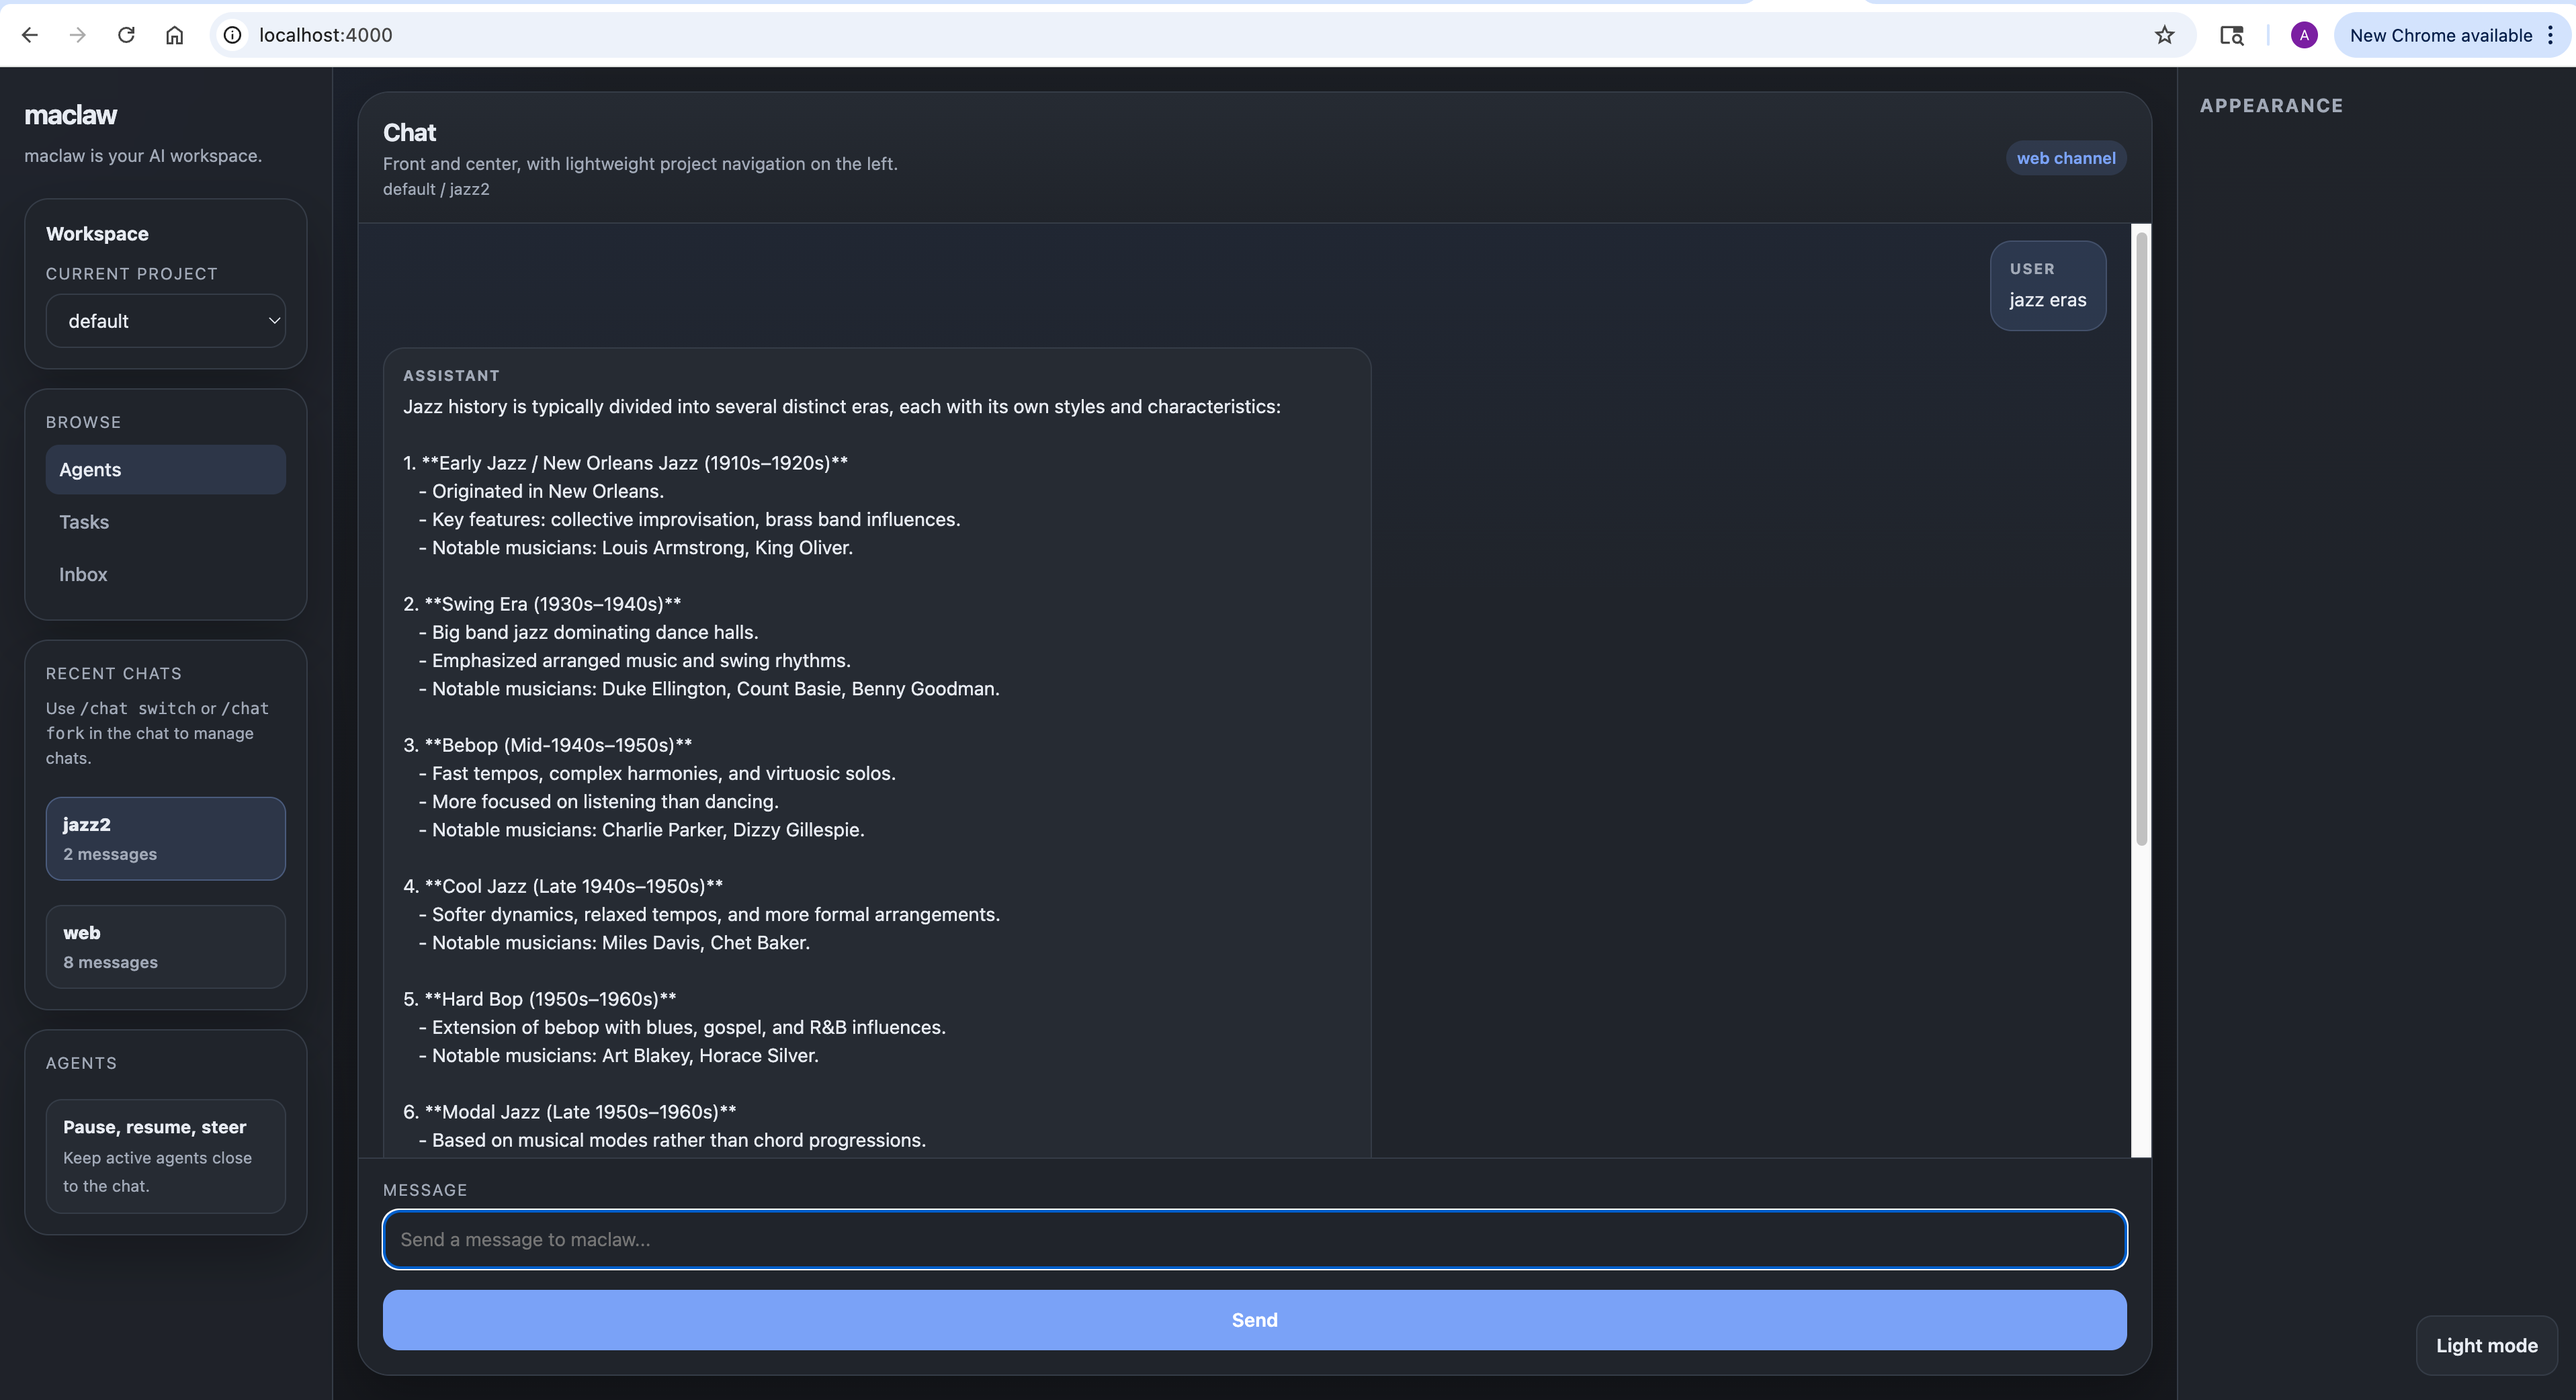
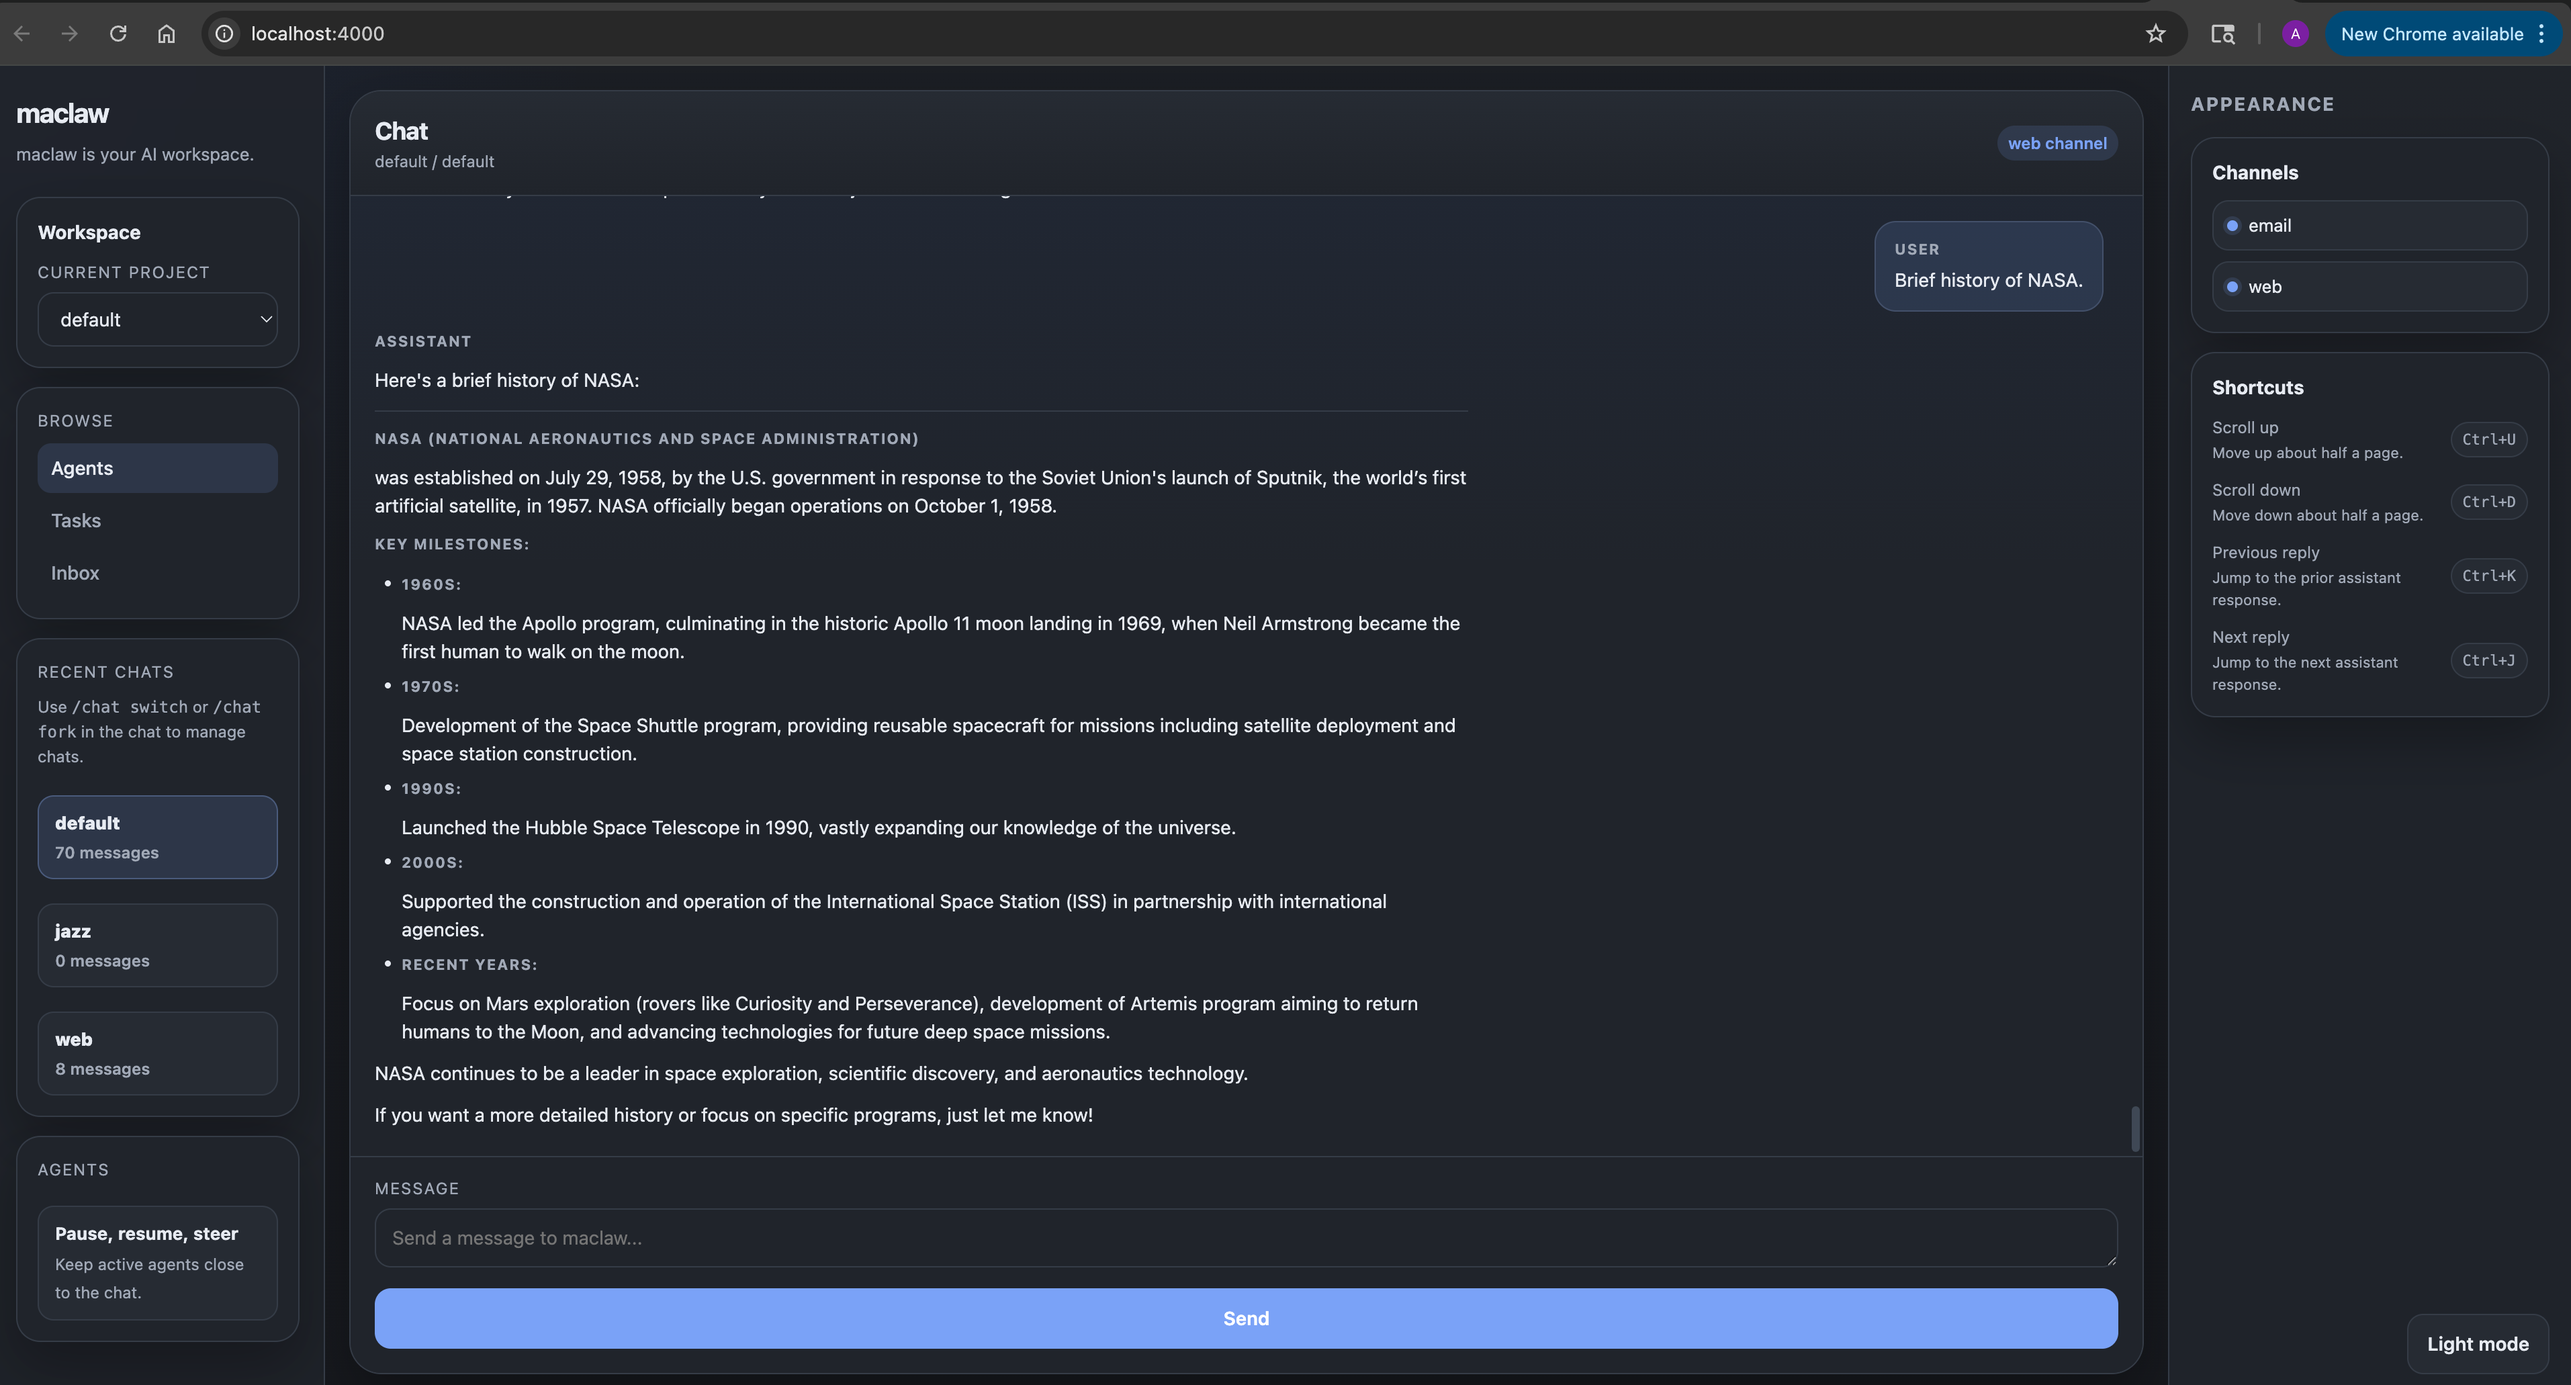
portal shortcuts

diff --git a/src/portal/html.ts b/src/portal/html.ts
@@ -44,6 +44,60 @@ const domPurifyBundle = readFileSync(
   "utf8",
 );
 
+type PortalKeybinding = {
+  action: string;
+  key: string;
+  label: string;
+  shortcut: string;
+  description?: string;
+};
+
+const portalKeybindings: PortalKeybinding[] = [
+  {
+    action: "scrollUp",
+    key: "u",
+    label: "Scroll up",
+    shortcut: "Ctrl+U",
+    description: "Move up about half a page.",
+  },
+  {
+    action: "scrollDown",
+    key: "d",
+    label: "Scroll down",
+    shortcut: "Ctrl+D",
+    description: "Move down about half a page.",
+  },
+  {
+    action: "previousReply",
+    key: "k",
+    label: "Previous reply",
+    shortcut: "Ctrl+K",
+    description: "Jump to the prior assistant response.",
+  },
+  {
+    action: "nextReply",
+    key: "j",
+    label: "Next reply",
+    shortcut: "Ctrl+J",
+    description: "Jump to the next assistant response.",
+  },
+];
+
+const renderShortcutList = (keybindings: PortalKeybinding[]): string =>
+  keybindings
+    .map(
+      (binding) => `
+              <div class="shortcut-row">
+                <span>${escapeHtml(binding.label)}${
+                  binding.description
+                    ? `<br /><span class="shortcut-description">${escapeHtml(binding.description)}</span>`
+                    : ""
+                }</span>
+                <span class="shortcut-key">${escapeHtml(binding.shortcut)}</span>
+              </div>`,
+    )
+    .join("");
+
 export const renderPortalHtml = ({
   channels,
   currentProject,
@@ -624,6 +678,43 @@ export const renderPortalHtml = ({
         font-size: 12px;
       }
 
+      .shortcut-list {
+        display: grid;
+        gap: 10px;
+      }
+
+      .shortcut-row {
+        display: flex;
+        align-items: center;
+        justify-content: space-between;
+        gap: 12px;
+        font-size: 12px;
+      }
+
+      .shortcut-row span {
+        color: var(--muted);
+      }
+
+      .shortcut-description {
+        display: inline-block;
+        margin-top: 2px;
+        font-size: 11px;
+      }
+
+      .shortcut-key {
+        display: inline-flex;
+        align-items: center;
+        gap: 4px;
+        padding: 4px 8px;
+        border: 1px solid var(--border);
+        border-radius: 999px;
+        background: var(--panel-2);
+        color: var(--text);
+        font-family: var(--font-mono);
+        font-size: 11px;
+        white-space: nowrap;
+      }
+
       *::-webkit-scrollbar {
         width: 12px;
         height: 12px;
@@ -766,6 +857,10 @@ export const renderPortalHtml = ({
                     .join("")}</div>`
             }
           </section>
+          <section class="card">
+            <h3>Shortcuts</h3>
+            <div class="shortcut-list">${renderShortcutList(portalKeybindings)}</div>
+          </section>
         </div>
         <div class="theme-spacer"></div>
         <div class="theme-footer">
@@ -777,6 +872,7 @@ export const renderPortalHtml = ({
     <script>${domPurifyBundle}</script>
     <script>
       const portalState = ${serializeForScript({
+        keybindings: portalKeybindings,
         currentProject,
         projects,
       })};
@@ -867,6 +963,49 @@ export const renderPortalHtml = ({
         window.localStorage.setItem(chatStorageKey(project), currentChatId);
       };
 
+      const scrollTranscriptBy = (amount) => {
+        transcript.scrollBy({
+          top: amount,
+          behavior: 'smooth',
+        });
+      };
+
+      const jumpToAssistantMessage = (direction) => {
+        const assistantMessages = Array.from(
+          transcript.querySelectorAll('[data-role="assistant"]'),
+        );
+        if (assistantMessages.length === 0) {
+          return;
+        }
+
+        const transcriptRect = transcript.getBoundingClientRect();
+        const topThreshold = transcriptRect.top + 24;
+        const bottomThreshold = transcriptRect.bottom - 24;
+
+        if (direction > 0) {
+          const nextMessage = assistantMessages.find((element) => {
+            const rect = element.getBoundingClientRect();
+            return rect.top >= bottomThreshold;
+          }) ?? assistantMessages[assistantMessages.length - 1];
+
+          nextMessage.scrollIntoView({
+            block: 'start',
+            behavior: 'smooth',
+          });
+          return;
+        }
+
+        const previousMessages = assistantMessages.filter((element) => {
+          const rect = element.getBoundingClientRect();
+          return rect.top <= topThreshold && rect.bottom <= topThreshold;
+        });
+        const previousMessage = previousMessages[previousMessages.length - 1] ?? assistantMessages[0];
+        previousMessage.scrollIntoView({
+          block: 'start',
+          behavior: 'smooth',
+        });
+      };
+
       const renderMessages = () => {
         if (displayMessages.length === 0) {
           transcript.innerHTML = '<div class="empty-state">No messages yet. Start the conversation here.</div>';
@@ -876,7 +1015,7 @@ export const renderPortalHtml = ({
         transcript.innerHTML = displayMessages.map((message) => {
           const roleClass = message.role === "user" ? " message-user" : " message-assistant";
           return [
-            '<article class="message' + roleClass + '">',
+            '<article class="message' + roleClass + '" data-role="' + escapeHtml(message.role) + '">',
             '<strong>' + escapeHtml(message.role) + '</strong>',
             renderMessageContent(message),
             '</article>',
@@ -1119,6 +1258,40 @@ export const renderPortalHtml = ({
         if (event.key === 'Enter' && !event.shiftKey) {
           event.preventDefault();
           void sendMessage();
+        }
+      });
+
+      document.addEventListener('keydown', (event) => {
+        if (!event.ctrlKey || event.metaKey || event.altKey) {
+          return;
+        }
+
+        const binding = portalState.keybindings.find((entry) => (
+          typeof entry?.key === 'string'
+          && entry.key.toLowerCase() === event.key.toLowerCase()
+        ));
+        if (!binding) {
+          return;
+        }
+
+        event.preventDefault();
+        if (binding.action === 'scrollUp') {
+          scrollTranscriptBy(-Math.max(transcript.clientHeight * 0.5, 180));
+          return;
+        }
+
+        if (binding.action === 'scrollDown') {
+          scrollTranscriptBy(Math.max(transcript.clientHeight * 0.5, 180));
+          return;
+        }
+
+        if (binding.action === 'previousReply') {
+          jumpToAssistantMessage(-1);
+          return;
+        }
+
+        if (binding.action === 'nextReply') {
+          jumpToAssistantMessage(1);
         }
       });
 

diff --git a/README.md b/README.md
@@ -97,6 +97,10 @@ $ maclaw server
 Web portal listening on http://localhost:4000/
 ```
 
+Portal screenshot:
+
+![maclaw portal](screenshots/portal.png)
+
 ## Teleport
 
 `maclaw teleport` supports remote control over SSH tunnels. The easiest flow is
